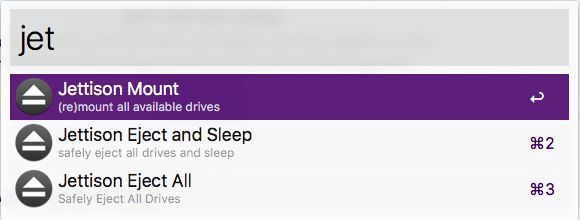
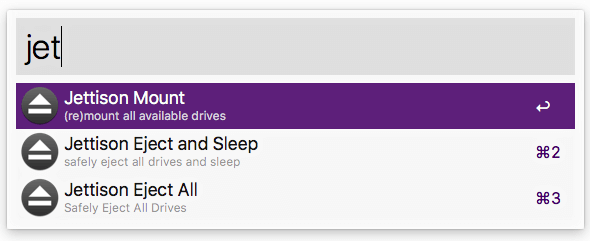
fix typos in readme, better screenshot

Changed region(s): [[0.0, 0.0, 1.0, 1.0]]

diff --git a/README.md b/README.md
@@ -1,6 +1,6 @@
 Jettison Workflow for [Alfred 3](http://www.alfredapp.com)
-
 ==============================
+
 [Jettison](https://www.stclairsoft.com/Jettison/) is a lightweight MacOS menulet application that automatically and safely unmounts and remounts external volumes when your computer wakes or sleeps. **alfred-jettison** is a simple Alfred workflow to manually invoke Jettison Actions on command. 
 
 Installation
@@ -38,4 +38,4 @@ Roadmap
 
 License / Disclaimer
 -----
-This workflow is available for free use via the (MIT license[)https://opensource.org/licenses/MIT]. However, Jettison and the Jettison logo are copyright (St. Clair Software)[https://www.stclairsoft.com/Jettison]. Use here is not not authorized by, sponsored by, or associated with the trademark owner.
+This workflow is available for free use via the [MIT license](https://opensource.org/licenses/MIT). However, Jettison and the Jettison logo are copyright [St. Clair Software](https://www.stclairsoft.com/Jettison). Use here is not not authorized by, sponsored by, or associated with the trademark owner.
